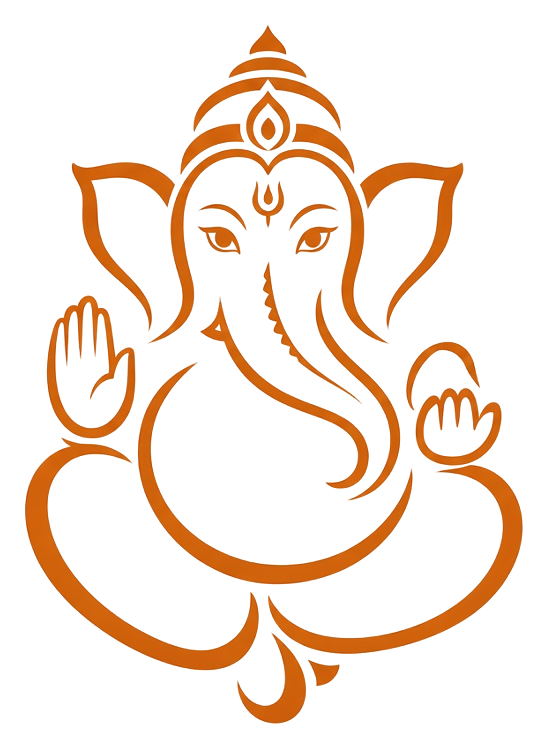
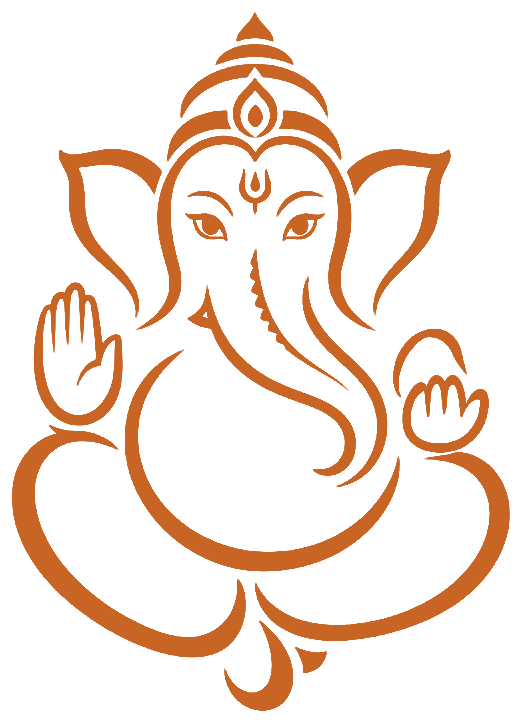
Enlarge Ganesha emblem with true transparency

Changed region(s): [[0.0, 0.0, 0.9808, 1.0], [0.4598, 0.3347, 0.5211, 0.4564], [0.5211, 0.4564, 0.5517, 0.4869]]

diff --git a/components/indian-ornaments.tsx b/components/indian-ornaments.tsx
@@ -5,7 +5,7 @@ export function GaneshEmblem() {
     <img
       src={`${BASE_PATH}/ganesha-emblem-clean.png`}
       alt="Lord Ganesha"
-      className="h-20 w-20 object-contain mix-blend-multiply sm:h-24 sm:w-24"
+      className="h-24 w-24 object-contain sm:h-28 sm:w-28"
     />
   )
 }
